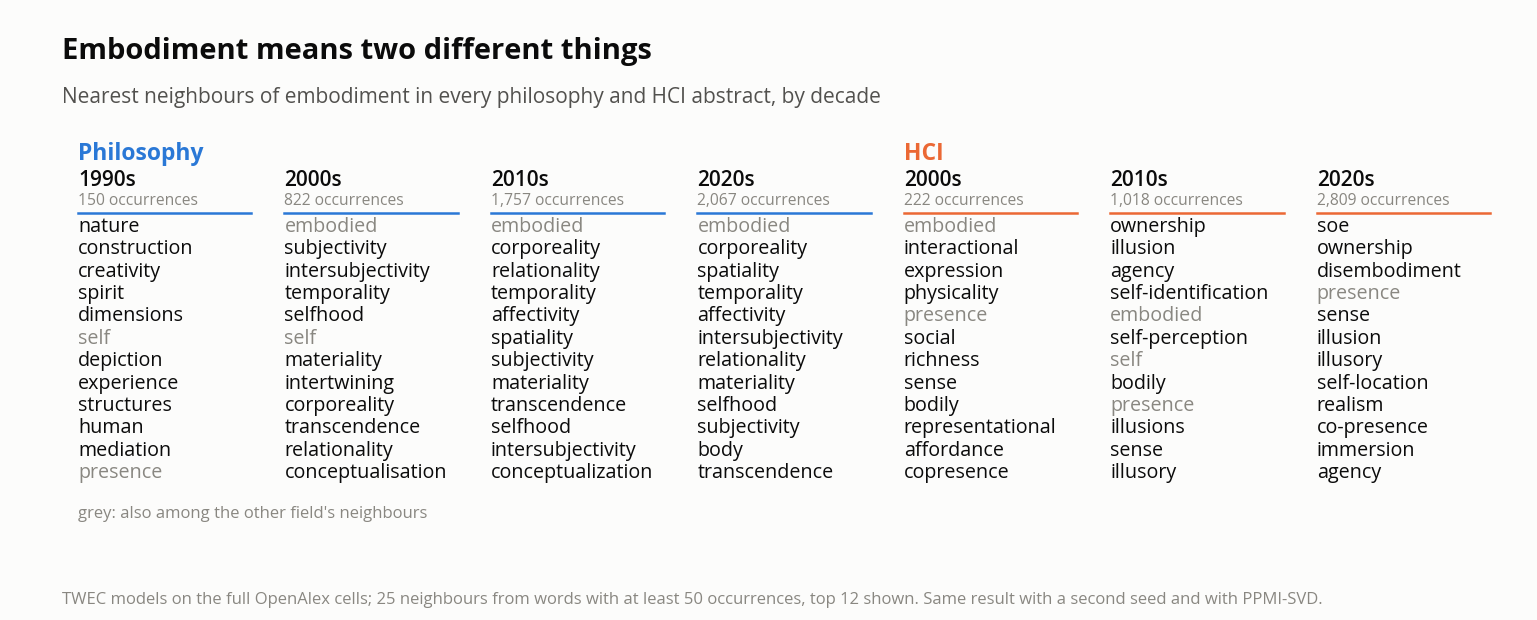
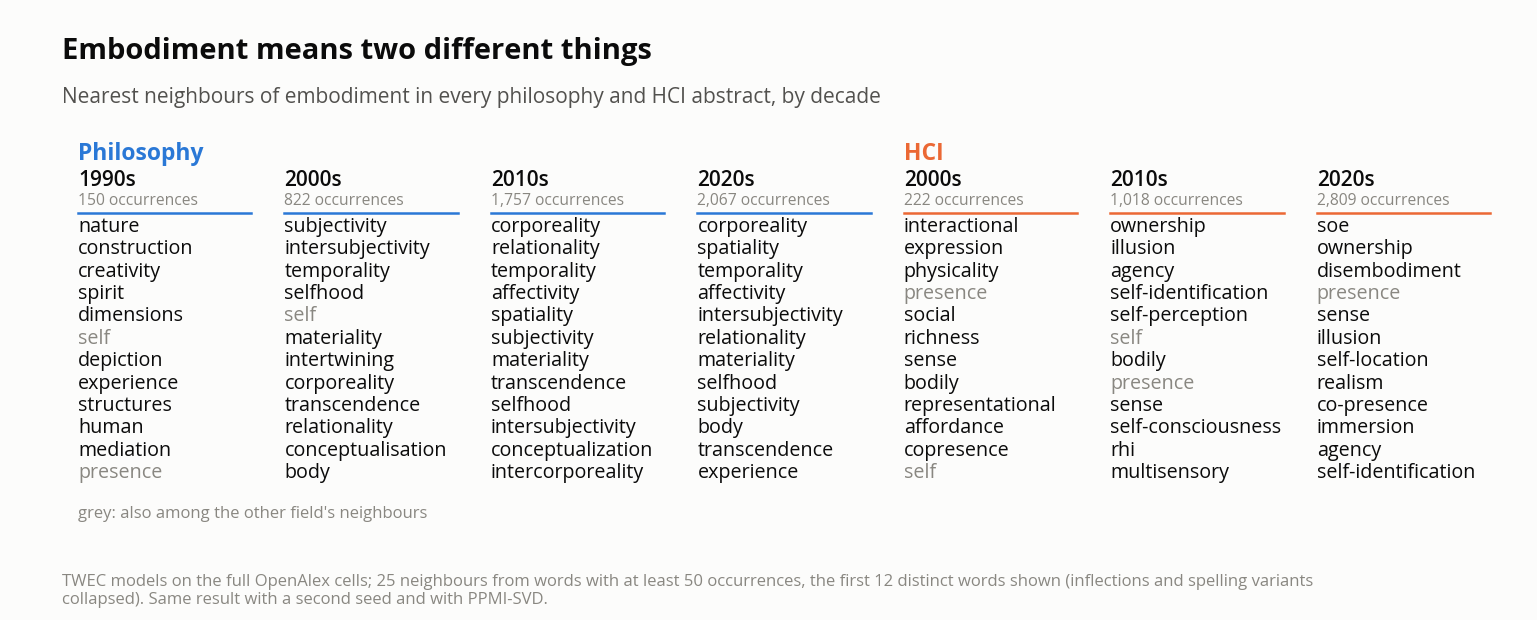
fix(figures): collapse inflections and spelling variants in neighbour panels

diff --git a/src/interpretant/visualization/figures.py b/src/interpretant/visualization/figures.py
@@ -54,6 +54,34 @@ def decade_label(decade: int) -> str:
     return f"{decade}s"
 
 
+def same_family(word: str, other: str, min_prefix: int = 5, share: float = 0.6) -> bool:
+    """Whether two words are inflections or spelling variants of each other.
+
+    The models are not lemmatised, so *structure* and *structures*, *embedding* and
+    *embeddings*, or *conceptualisation* and *conceptualization* appear as separate
+    neighbours. Two words count as one family when their common prefix is at least
+    ``min_prefix`` characters and ``share`` of the shorter word.
+    """
+    prefix = 0
+    for first, second in zip(word, other, strict=False):
+        if first != second:
+            break
+        prefix += 1
+    return prefix >= min_prefix and prefix >= share * min(len(word), len(other))
+
+
+def distinct_neighbours(word: str, neighbours: list[str], k: int) -> list[str]:
+    """The first ``k`` neighbours that are not variants of ``word`` or of an earlier one."""
+    kept: list[str] = []
+    for neighbour in neighbours:
+        if same_family(word, neighbour) or any(same_family(neighbour, seen) for seen in kept):
+            continue
+        kept.append(neighbour)
+        if len(kept) == k:
+            break
+    return kept
+
+
 @dataclass(frozen=True)
 class NeighbourColumn:
     """One cell's nearest neighbours of the word under study."""
@@ -74,16 +102,25 @@ def neighbour_panel(
 ) -> Figure:
     """Ranked neighbour lists, one column per cell, grouped and coloured by field.
 
-    A word that also appears among another field's neighbours is set in muted ink, so the
-    columns show at a glance how little two fields share.
+    Inflections of the word and later variants of an earlier neighbour are left out
+    (:func:`distinct_neighbours`). A word that also appears among another field's neighbours
+    is set in muted ink, so the columns show at a glance how little two fields share.
     """
     fields = list(dict.fromkeys(column.field for column in columns))
     colours = dict(zip(fields, SERIES, strict=False))
+    shown = {
+        (column.field, column.decade): distinct_neighbours(word, column.words, k)
+        for column in columns
+    }
     shared = {
         neighbour
         for column in columns
-        for neighbour in column.words[:k]
-        if any(neighbour in other.words[:k] for other in columns if other.field != column.field)
+        for neighbour in shown[(column.field, column.decade)]
+        if any(
+            neighbour in shown[(other.field, other.decade)]
+            for other in columns
+            if other.field != column.field
+        )
     }
     width = 1.35 * len(columns) + 0.8
     rows = 2.4 + k * 0.78 + 1.6
@@ -111,7 +148,7 @@ def neighbour_panel(
             fontproperties=font("Regular", 7.5),
         )
         axes.plot([x, position + 0.92], [1.75, 1.75], color=colour, linewidth=1.2)
-        for rank, neighbour in enumerate(column.words[:k]):
+        for rank, neighbour in enumerate(shown[(column.field, column.decade)]):
             ink = INK_MUTED if neighbour in shared else INK
             axes.text(
                 x,

diff --git a/src/interpretant/__main__.py b/src/interpretant/__main__.py
@@ -2018,14 +2018,14 @@ def figures(model_dir: Path, drift_dir: Path, audit_path: Path, output_dir: Path
         + [column("openalex_full", "hci", decade, "embodiment") for decade in (2000, 2010, 2020)],
         title="Embodiment means two different things",
         subtitle="Nearest neighbours of embodiment in every philosophy and HCI abstract, by decade",
-        footnote="TWEC models on the full OpenAlex cells; 25 neighbours from words with at least 50 occurrences, top 12 shown. Same result with a second seed and with PPMI-SVD.",  # noqa: E501
+        footnote="TWEC models on the full OpenAlex cells; 25 neighbours from words with at least 50 occurrences, the first 12 distinct words shown (inflections and spelling variants collapsed). Same result with a second seed and with PPMI-SVD.",  # noqa: E501
     )
     drawn["representation_ai"] = neighbour_panel(
         "representation",
         [column("openalex", "ai", decade, "representation") for decade in (1980, 2000, 2020)],
         title="Representation in AI, from symbolic to learned",
         subtitle="Nearest neighbours of representation in 10,000-abstract AI cells",
-        footnote="TWEC models on the main OpenAlex grid; the symbolic 1980s holds in TWEC only, the learned 2020s in every run.",  # noqa: E501
+        footnote="TWEC models on the main OpenAlex grid, first 12 distinct neighbours (inflections and spelling variants collapsed); the symbolic 1980s holds in TWEC only, the learned 2020s in every run.",  # noqa: E501
     )
     table = pd.read_parquet(drift_dir / "cross_perplexity_corrected.parquet")
     drawn["philosophy_hci"] = excess_by_decade(

diff --git a/tests/test_figures.py b/tests/test_figures.py
@@ -12,8 +12,10 @@ import pytest
 from interpretant.visualization.figures import (
     NeighbourColumn,
     corpus_grid,
+    distinct_neighbours,
     excess_by_decade,
     neighbour_panel,
+    same_family,
 )
 
 
@@ -80,3 +82,19 @@ def test_corpus_grid_shows_counts_and_marks_empty_cells() -> None:
     assert {"120", "10,000", "3,000", "–"} <= texts(figure)
     image = axes.images[0].get_array()
     assert np.ma.is_masked(image[0, 0])
+
+
+def test_variants_of_the_word_and_of_earlier_neighbours_are_collapsed() -> None:
+    assert same_family("structure", "structures")
+    assert same_family("conceptualisation", "conceptualization")
+    assert same_family("learn", "learned")
+    assert not same_family("self-location", "self-perception")
+    assert not same_family("sense", "sensorial")
+
+    neighbours = ["representing", "structures", "knowledge", "structure", "declarative", "learn"]
+
+    assert distinct_neighbours("representation", neighbours, k=3) == [
+        "structures",
+        "knowledge",
+        "declarative",
+    ]
